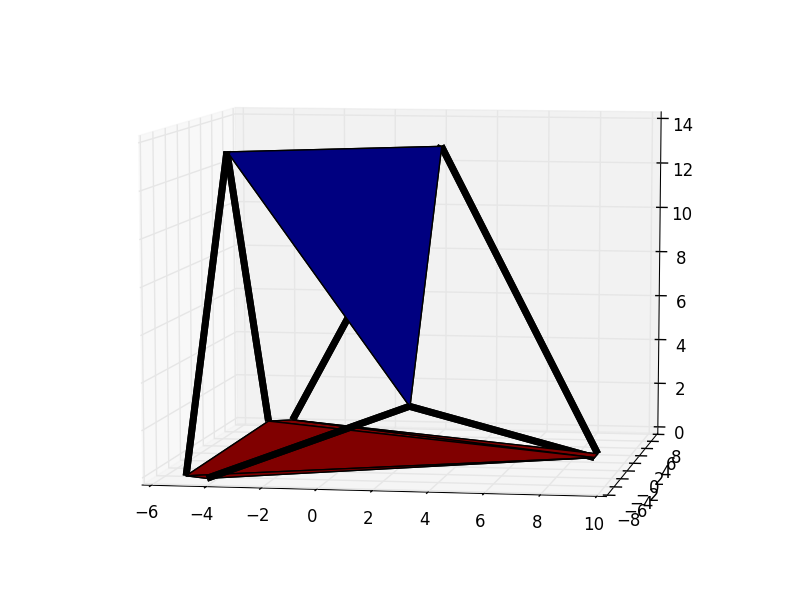
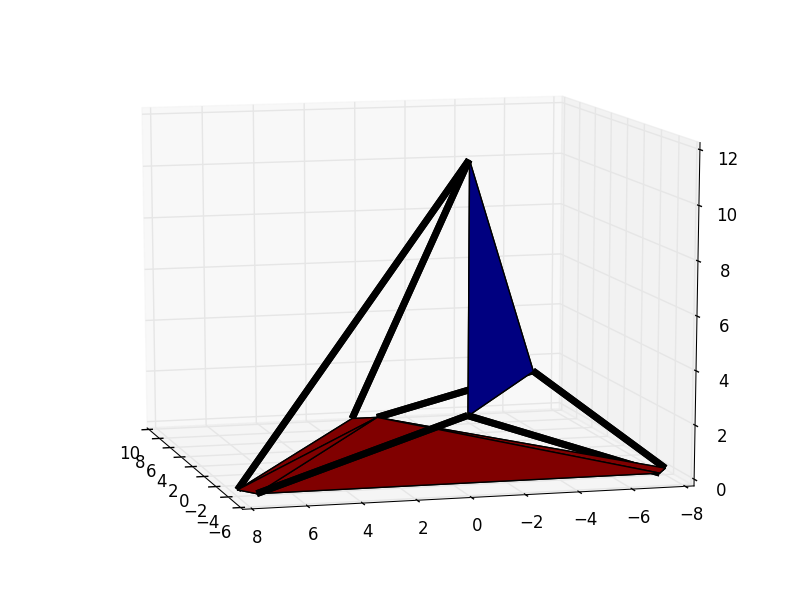
fixed tilted

Changed region(s): [[0.1562, 0.18, 0.9062, 0.9], [0.8438, 0.84, 0.875, 0.87], [0.6562, 0.87, 0.6875, 0.9]]

diff --git a/fmn011 project 1 platform/test2/__init__.py b/fmn011 project 1 platform/test2/__init__.py
@@ -46,11 +46,11 @@ def task4(L, b, d, a):
 def task5(L, b, d, a):
     startXT = (2.4537, -4.9075, 2.7424)
     # Legs at min length:
-    L = (8, 8, 8, 8, 8, 8)
+    #L = (8, 8, 8, 8, 8, 8)
     #Legs at max length:
     #L = (15, 15, 15, 15, 15, 15)
     # Maximally tilted platform:
-    #L = (15, 15, 8, 8, 8, 8)
+    L = (15, 15, 8, 8, 8, 8)
     # Maximally twisted platform:
     #L = (8, 15, 8, 15, 8, 15)
     P = constructP(L, b, d)
@@ -64,7 +64,6 @@ def task5(L, b, d, a):
     YB = calcBaseY(b, d)
     ZB = np.zeros(6)
     (L1, L2, L3) = calcLegs(XT, YT, ZT, XB, YB, ZB)
-    print(L1, L2, L3)
     plotGraph(XT, YT, ZT, XB, YB, L1, L2, L3)
 
 
